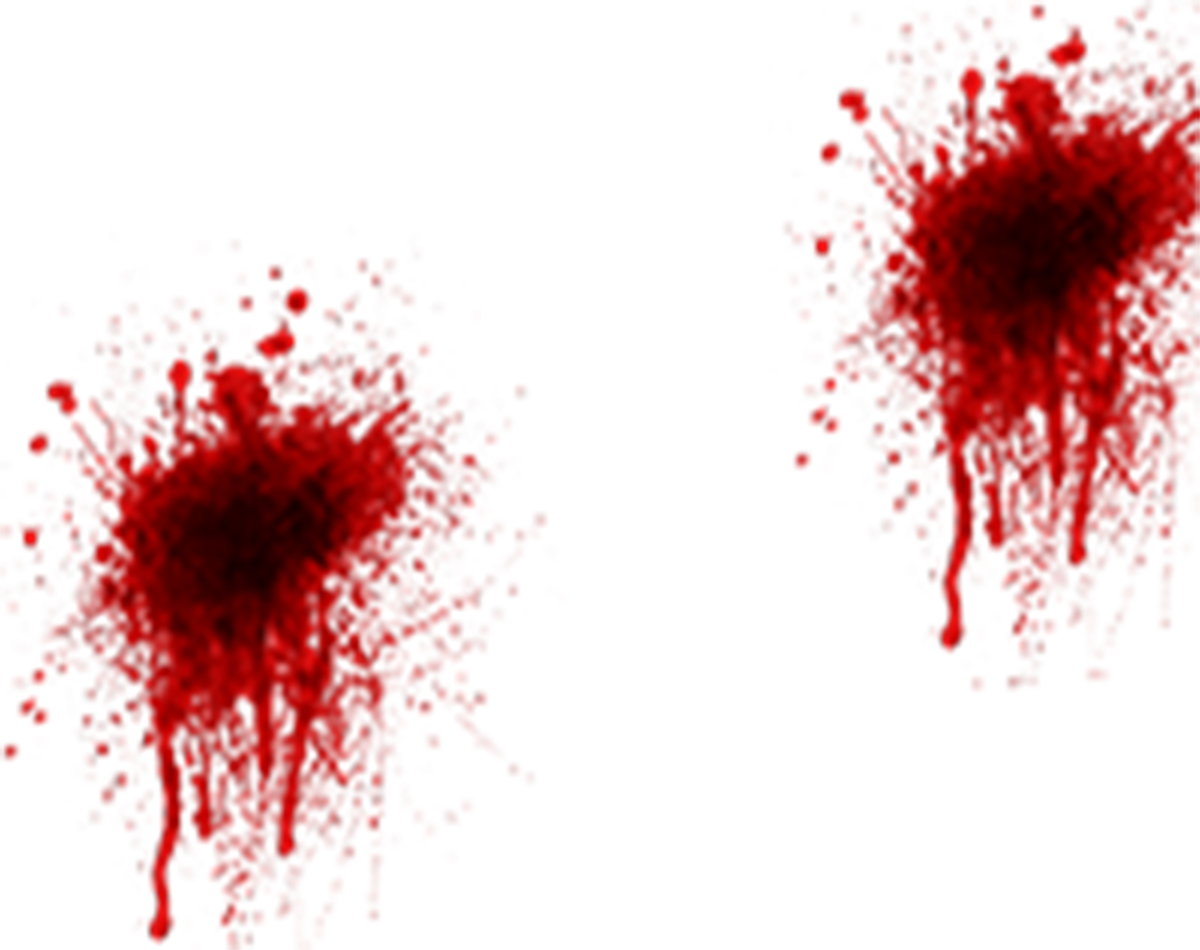
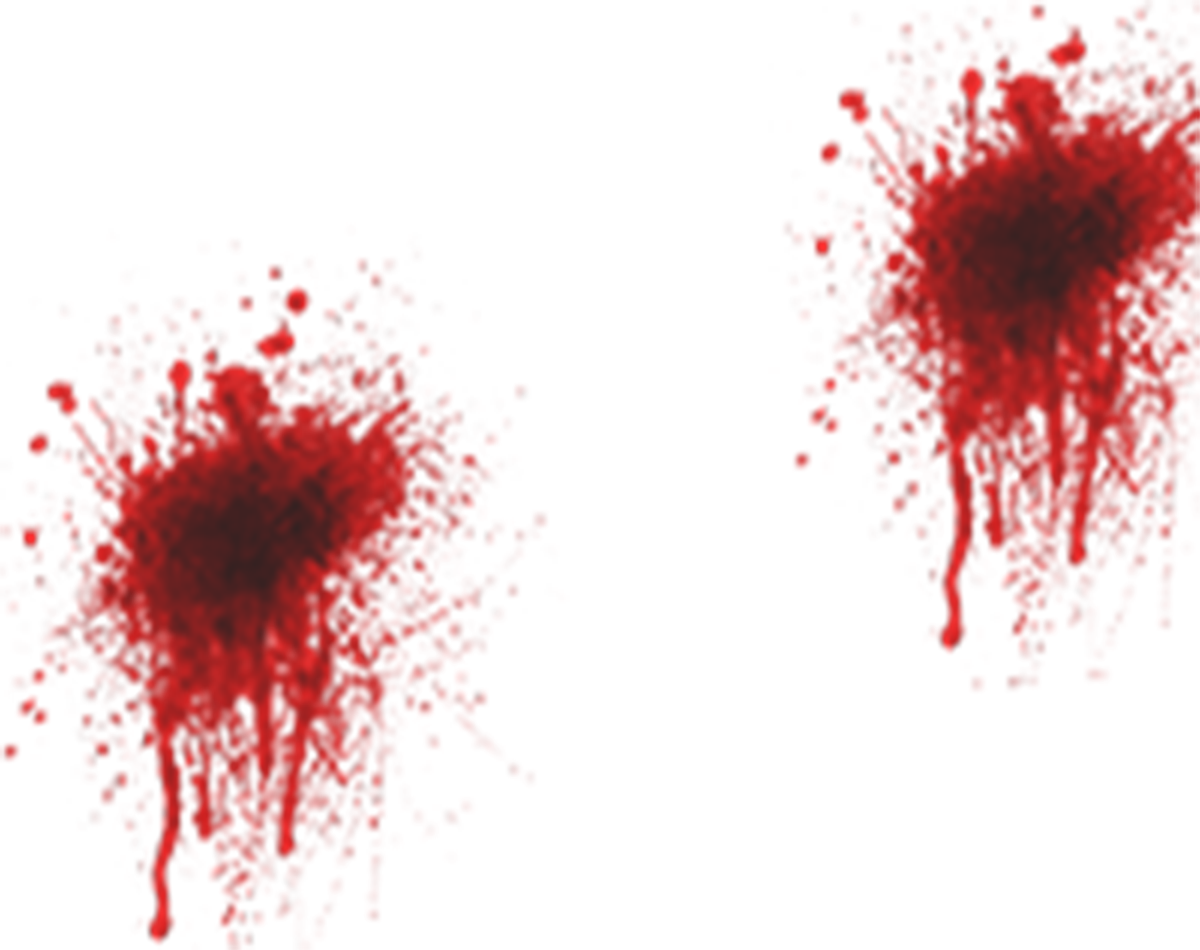
Added blood on screen m8

diff --git a/Assets/MainAssets/Scripts/PlayerStats.cs b/Assets/MainAssets/Scripts/PlayerStats.cs
@@ -3,10 +3,16 @@ using System.Collections;
 
 public class PlayerStats : MonoBehaviour {
 	public GameObject blood; //create public gameobject blood
+	public GameObject blood2; //create public gameobject blood (faded version)
+	public GameObject blood3; //create public gameobject blood (faded version)
 	public float healthValue = 15; //create health variable and set it at 100
 	private int distance = 1;
 	public bool bloodOnScreen = false;
+	public bool bloodOnScreen2 = false;
+	public bool bloodOnScreen3 = false;
 	private GameObject clone;
+	private GameObject clone2;
+	private GameObject clone3;
 	//public Camera Camera;
 	// Use this for initialization
 	void Start () {
@@ -20,13 +26,14 @@ public class PlayerStats : MonoBehaviour {
 		if (healthValue > 99) { //if health is more than 99
 			healthValue = 100; //make health 100 (done this so health doesn't surpass 100
 		}
-		if (healthValue <= 30  && bloodOnScreen == false) //if health is less than 30
+		if (healthValue <= 30  && healthValue > 20 && bloodOnScreen == false) //if health is less than 30
 		{
-			
-			clone = Instantiate(blood, transform.position + transform.forward*distance, transform.rotation)as GameObject; //add blood to scene
+			GameObject.Destroy (clone2);
+			GameObject.Destroy (clone3);
+			clone = Instantiate(blood3, transform.position + transform.forward*distance, transform.rotation)as GameObject; //add blood to scene
 			clone.transform.parent = GameObject.Find("Canvas").transform;
 			bloodOnScreen = true;
-		
+
 			//blood.transform.localPosition.x;
 
 		}
@@ -35,8 +42,26 @@ public class PlayerStats : MonoBehaviour {
 			Debug.Log("kill");
 			GameObject.Destroy (clone);
 			bloodOnScreen = false;
+			bloodOnScreen2 = false;
+			bloodOnScreen3 = false;
 
+		}
+		if (healthValue < 20 && healthValue > 10 && bloodOnScreen2 == false) {
+			
+			clone2 = Instantiate(blood2, transform.position + transform.forward*distance, transform.rotation)as GameObject; //add blood to scene
+			clone2.transform.parent = GameObject.Find("Canvas").transform;
+			GameObject.Destroy (clone);
+			GameObject.Destroy (clone3);
+			bloodOnScreen2 = true;
+		}
+		if (healthValue <= 10 && bloodOnScreen3 == false) {
+			
+			GameObject.Destroy (clone2);
+			GameObject.Destroy (clone);
+			clone3 = Instantiate(blood, transform.position + transform.forward*distance, transform.rotation)as GameObject; //add blood to scene
+			clone3.transform.parent = GameObject.Find("Canvas").transform;
+			bloodOnScreen3 = true;
+		}
 		}
 	}
 
-}
